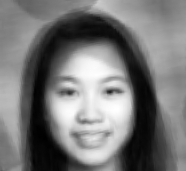
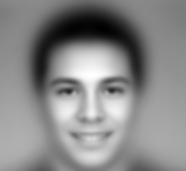
Add examples

diff --git a/readme.md b/readme.md
@@ -12,4 +12,14 @@ pip install -r requirements.txt
 When everything is installed, simply run `python pixel.py`. The output image is found in `assets/new_face.png`.
 
 
-I have been using [this dataset](http://people.eecs.berkeley.edu/~shiry/projects/yearbooks/yearbooks.html) when developing. Simply place your desired images in `assets/test_data/` if you want to change this.
+I have been using this dataset [http://people.eecs.berkeley.edu/~shiry/projects/yearbooks/yearbooks.html](http://people.eecs.berkeley.edu/~shiry/projects/yearbooks/yearbooks.html) when developing. Simply place your desired images in `assets/test_data/` if you want to change this.
+
+
+### Example:
+Below are the output images when comparing all women and men, respectively, from years 2000-2013 from the given dataset.
+
+![avg. woman from 2000s](assets/avg_all_women_from_2000s.png)
+
+
+![avg. man from 2000s](assets/avg_all_men_from_2000s.png)
+
